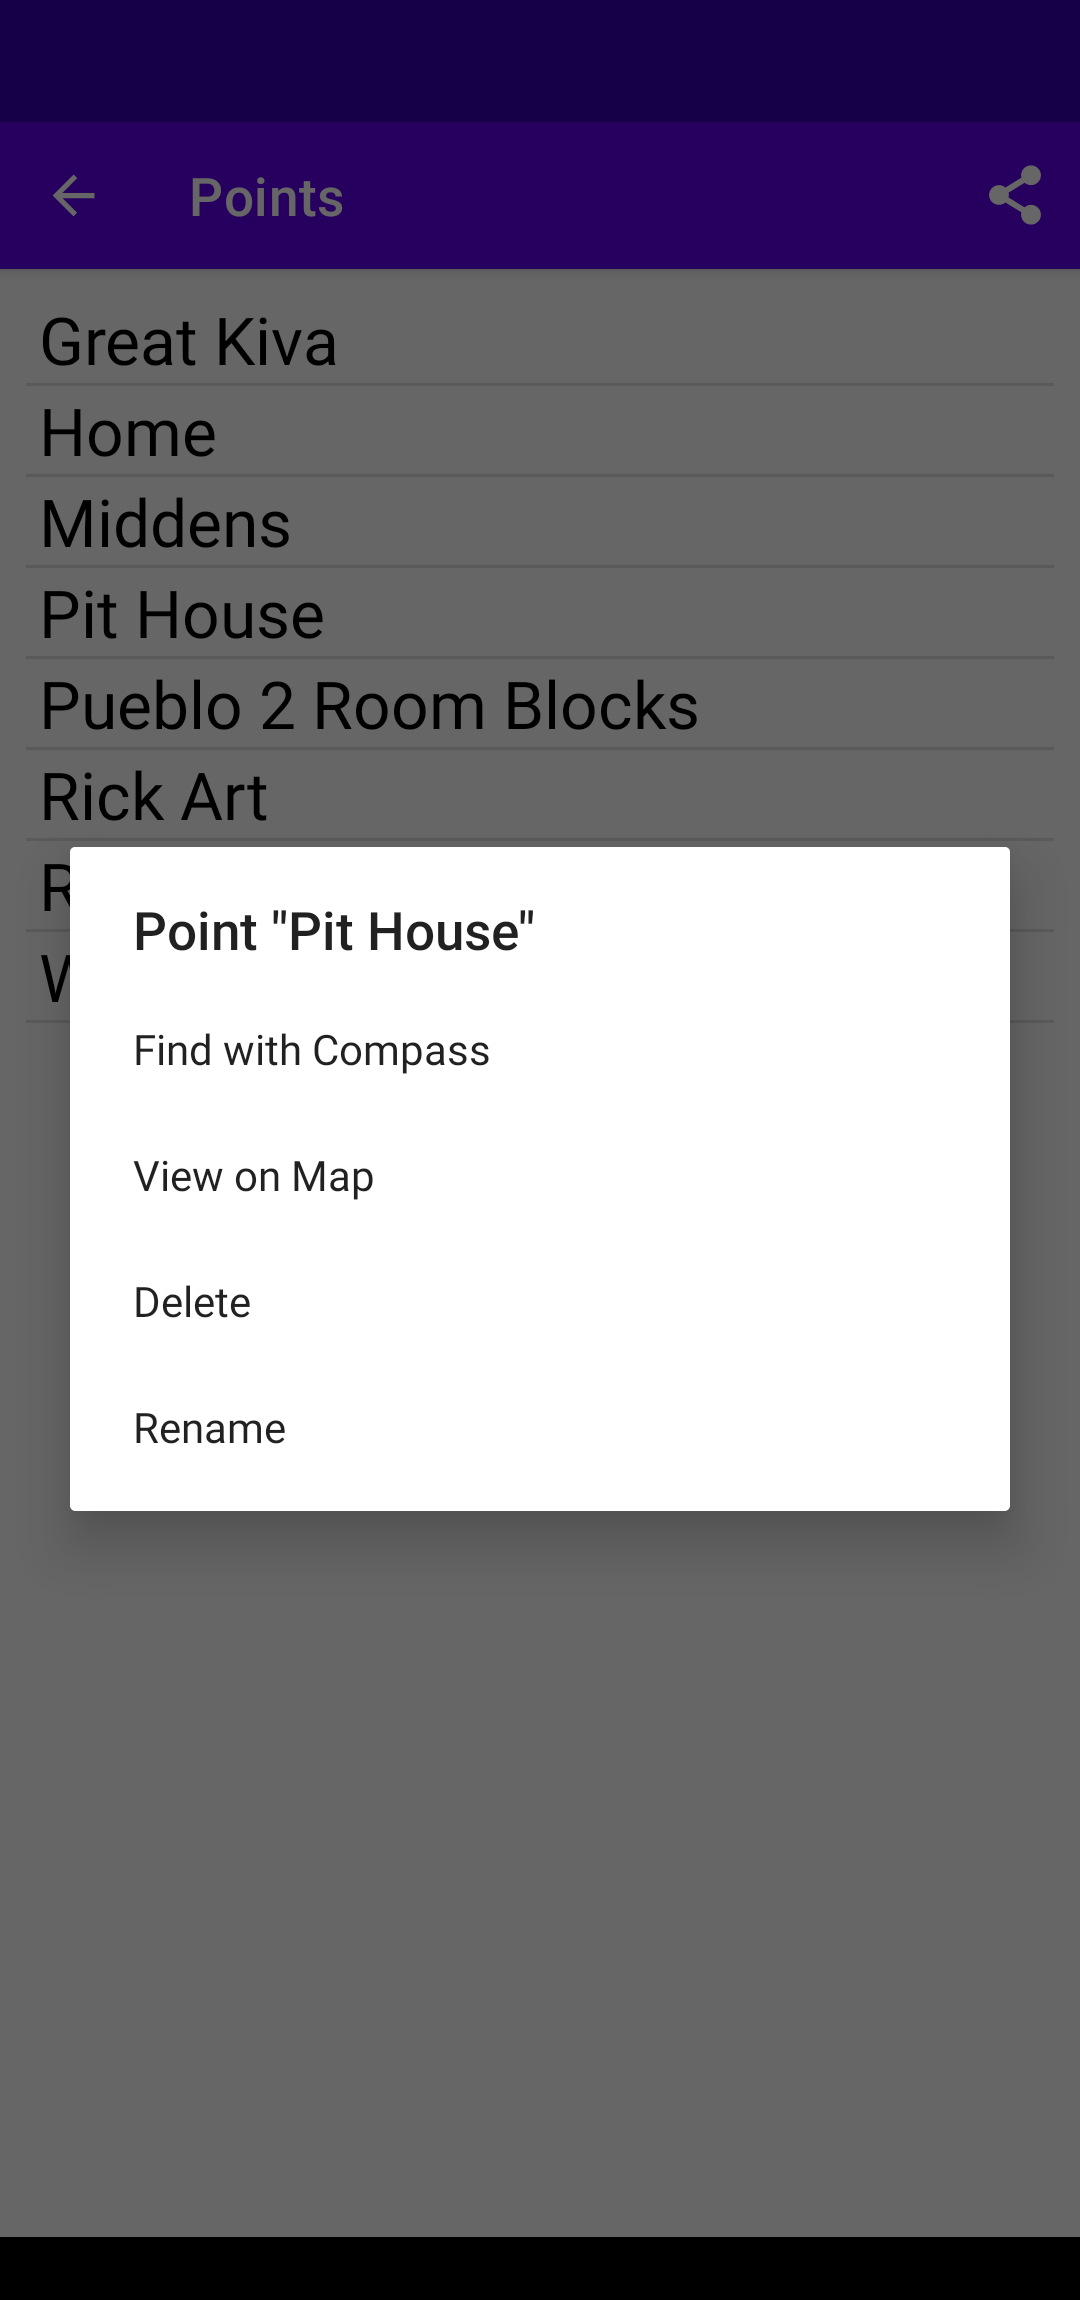
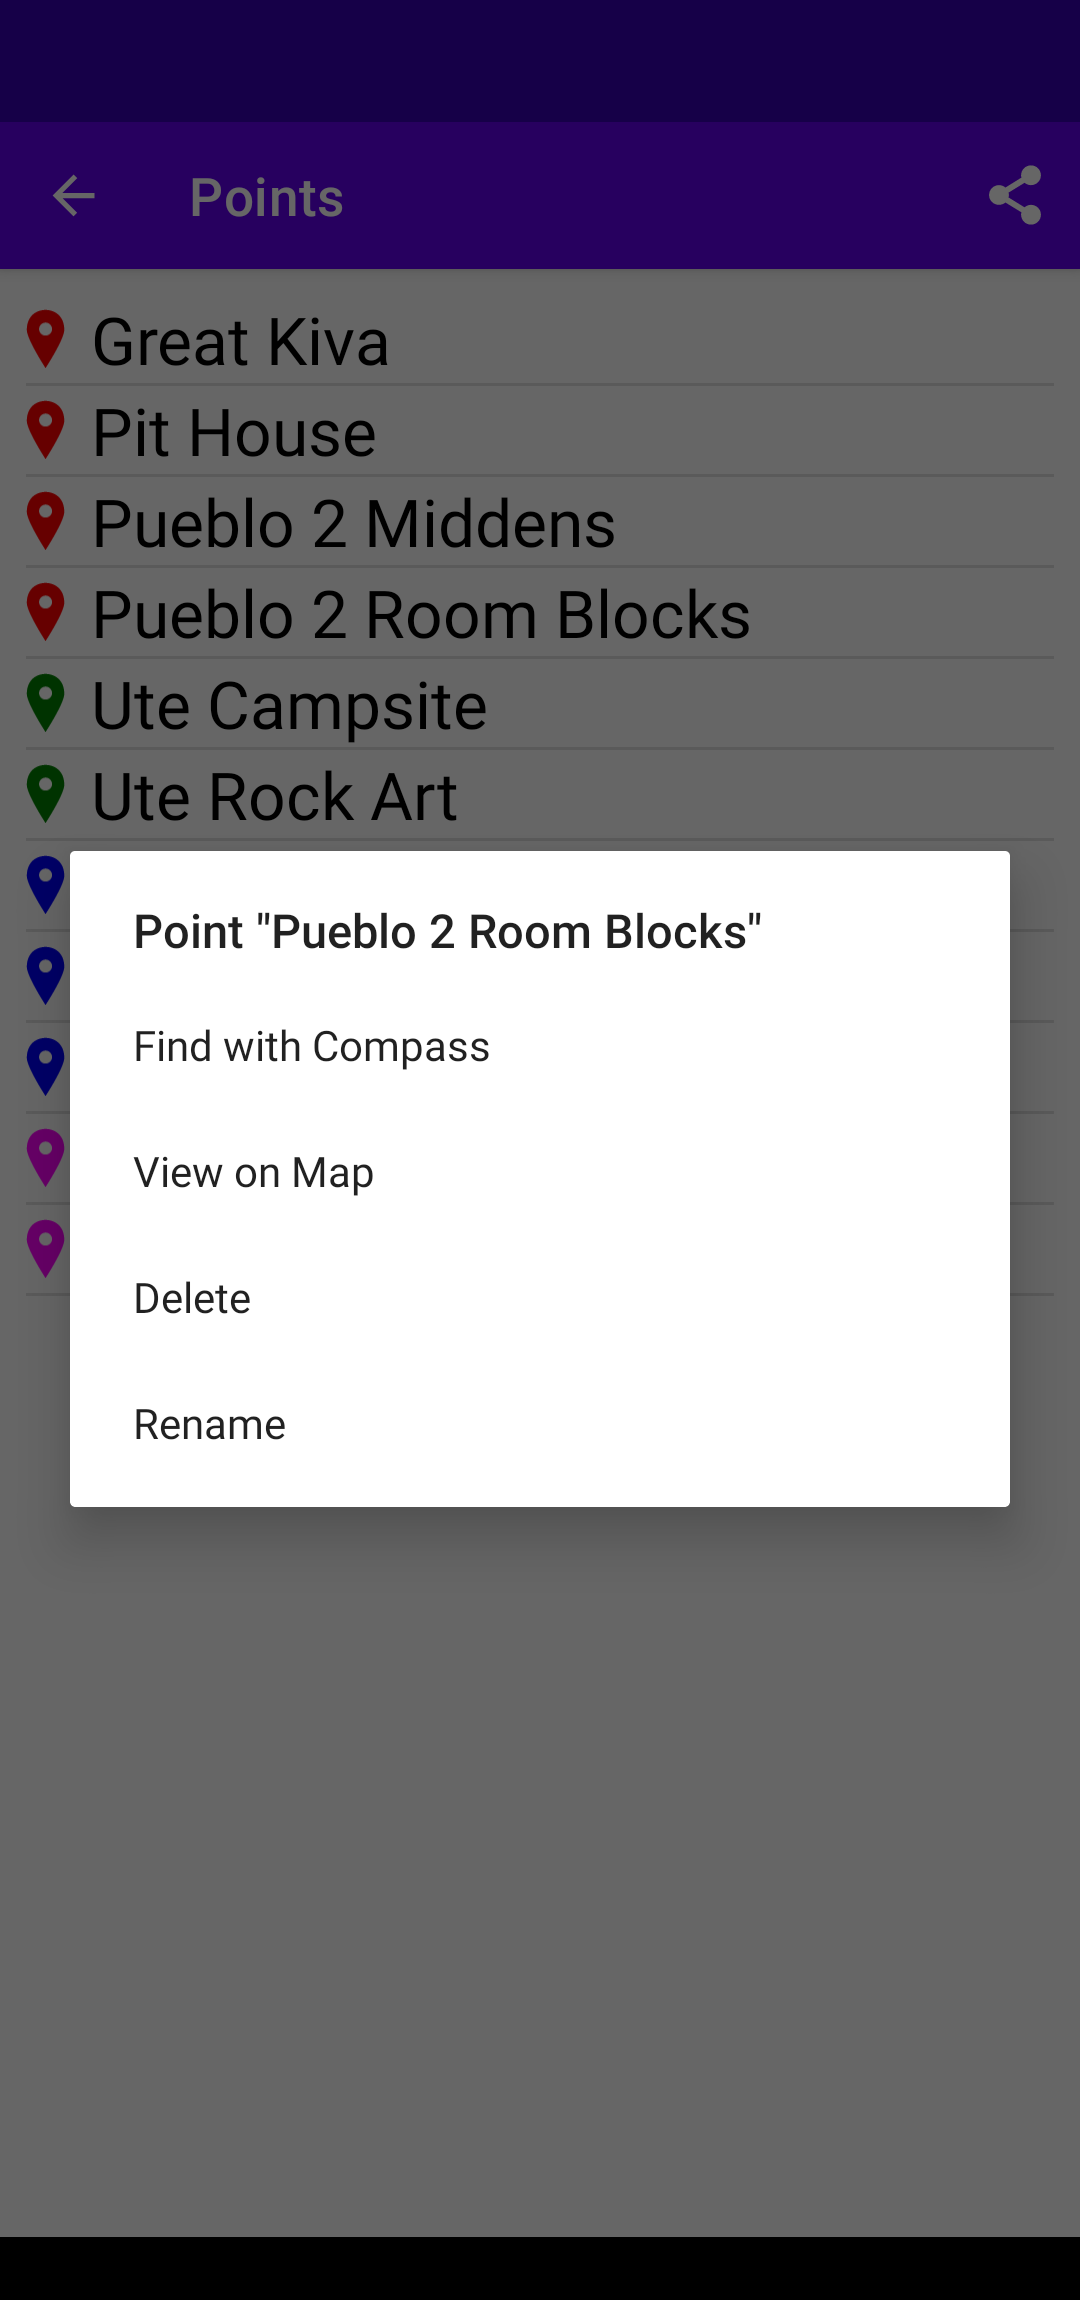
Version 1.27

diff --git a/app/src/main/java/com/ericbt/ebtcompass/Point.java b/app/src/main/java/com/ericbt/ebtcompass/Point.java
@@ -6,27 +6,35 @@ import com.google.android.gms.maps.model.BitmapDescriptorFactory;
 import java.util.Objects;
 
 public class Point {
+    private static final int NAME_INDEX      = 0;
+    private static final int LATITUDE_INDEX  = 1;
+    private static final int LONGITUDE_INDEX = 2;
+    private static final int COLOR_INDEX     = 3;
+    private static final int ALTITUDE_INDEX  = 4;
+
     private final static String DELIMITER = "\0";
 
     public final static int DEFAULT_COLOR = (int) BitmapDescriptorFactory.HUE_BLUE;
 
-    private final double latitude, longitude;
+    private final double latitude, longitude, altitude;
 
     private String name;
 
     private final int color;
 
-    public Point(String name, double latitude, double longitude, int color) {
+    public Point(String name, double latitude, double longitude, double altitude, int color) {
         this.name = name;
         this.latitude = latitude;
         this.longitude = longitude;
+        this.altitude = altitude;
         this.color = color;
     }
 
     public Point(String name) {
         this.name = name;
-        this.latitude = 0.0f;
-        this.longitude = 0.0f;
+        this.latitude = Double.NaN;
+        this.longitude = Double.NaN;
+        this.altitude = Double.NaN;
         this.color = DEFAULT_COLOR;
     }
 
@@ -38,12 +46,18 @@ public class Point {
 
     public double getLongitude() { return longitude; }
 
+    public double getAltitude() { return altitude; }
+
     public int getColor() { return color; }
 
     @Override
     public String toString() {
-        return String.format(LocaleUtils.getDefaultLocale(), "%s%s%.20f%s%.20f%s%d",
-                name, DELIMITER, latitude, DELIMITER, longitude, DELIMITER, color);
+        return String.format(LocaleUtils.getDefaultLocale(), "%s%s%.20f%s%.20f%s%d%s%.20f",
+                name, DELIMITER,
+                latitude, DELIMITER,
+                longitude, DELIMITER,
+                color, DELIMITER,
+                altitude);
     }
 
     public static Point fromString(String delimitedString) {
@@ -51,11 +65,17 @@ public class Point {
 
         int color = DEFAULT_COLOR;
 
-        if (values.length >= 4) {
-            color = Integer.parseInt(values[3]);
+        if (values.length > COLOR_INDEX) {
+            color = Integer.parseInt(values[COLOR_INDEX]);
         }
 
-        return new Point(values[0], Double.parseDouble(values[1]), Double.parseDouble(values[2]), color);
+        double altitude = Double.NaN;
+
+        if (values.length > ALTITUDE_INDEX) {
+            altitude = Double.parseDouble(values[ALTITUDE_INDEX]);
+        }
+
+        return new Point(values[0], Double.parseDouble(values[1]), Double.parseDouble(values[2]), altitude, color);
     }
 
     @Override

diff --git a/app/src/main/java/com/ericbt/ebtcompass/ColorConverter.java b/app/src/main/java/com/ericbt/ebtcompass/ColorConverter.java
@@ -1,0 +1,49 @@
+/*
+  EBT Compass
+  (C) Copyright 2021, Eric Bergman-Terrell
+
+  This file is part of EBT Compass.
+
+    EBT Compass is free software: you can redistribute it and/or modify
+    it under the terms of the GNU General Public License as published by
+    the Free Software Foundation, either version 3 of the License, or
+    (at your option) any later version.
+
+    EBT Compass is distributed in the hope that it will be useful,
+    but WITHOUT ANY WARRANTY; without even the implied warranty of
+    MERCHANTABILITY or FITNESS FOR A PARTICULAR PURPOSE.  See the
+    GNU General Public License for more details.
+
+    You should have received a copy of the GNU General Public License
+    along with EBT Compass.  If not, see <http://www.gnu.org/licenses/>.
+*/
+
+package com.ericbt.ebtcompass;
+
+import android.graphics.Color;
+
+import com.google.android.gms.maps.model.BitmapDescriptorFactory;
+
+import java.util.HashMap;
+import java.util.Map;
+
+public class ColorConverter {
+    final static Map<Float, String> map = new HashMap<>();
+
+    static {
+        map.put(BitmapDescriptorFactory.HUE_RED,     "#FF0000");
+        map.put(BitmapDescriptorFactory.HUE_ORANGE,  "#FFA500");
+        map.put(BitmapDescriptorFactory.HUE_YELLOW,  "#FFFF00");
+        map.put(BitmapDescriptorFactory.HUE_GREEN,   "#008000");
+        map.put(BitmapDescriptorFactory.HUE_CYAN,    "#00FFFF");
+        map.put(BitmapDescriptorFactory.HUE_AZURE,   "#007FFF");
+        map.put(BitmapDescriptorFactory.HUE_BLUE,    "#0000FF");
+        map.put(BitmapDescriptorFactory.HUE_VIOLET,  "#8F00FF");
+        map.put(BitmapDescriptorFactory.HUE_MAGENTA, "#FF00FF");
+        map.put(BitmapDescriptorFactory.HUE_ROSE,    "#FF007F");
+    }
+
+    public static int hueToColor(float hue) {
+        return Color.parseColor(map.get(hue));
+    }
+}

diff --git a/app/src/main/java/com/ericbt/ebtcompass/activities/PointsActivity.java b/app/src/main/java/com/ericbt/ebtcompass/activities/PointsActivity.java
@@ -268,19 +268,18 @@ public class PointsActivity extends CustomActivity {
     }
 
     private void sharePoints() {
-        final Point[] allPoints = Points.getAll(this);
-
         final StringBuilder allPointsText =
-                new StringBuilder("\"Point\",\"Latitude\",\"Longitude\",\"Zone\",\"Easting\",\"Northing\",\"Color\"\n");
+                new StringBuilder("\"Point\",\"Latitude\",\"Longitude\",\"Altitude (m)\",\"Zone\",\"Easting\",\"Northing\",\"Color\"\n");
 
-        for (final Point point: allPoints) {
+        for (final Point point : Points.getAll(this)) {
             final String[] utmValues = AngleUtils.getUTMValues(point.getLatitude(), point.getLongitude());
 
             final String line = String.format(
-                    LocaleUtils.getDefaultLocale(), "\"%s\",%.20f,%.20f,\"%s\",%s,%s,%d\n",
+                    LocaleUtils.getDefaultLocale(), "\"%s\",%.20f,%.20f,%.20f,\"%s\",%s,%s,%d\n",
                     point.getName().replace('\"', '\''),
                     point.getLatitude(),
                     point.getLongitude(),
+                    point.getAltitude(),
                     utmValues[0],
                     utmValues[1],
                     utmValues[2],

diff --git a/app/src/main/java/com/ericbt/ebtcompass/array_adapters/PointArrayAdapter.java b/app/src/main/java/com/ericbt/ebtcompass/array_adapters/PointArrayAdapter.java
@@ -25,9 +25,12 @@ import android.view.LayoutInflater;
 import android.view.View;
 import android.view.ViewGroup;
 import android.widget.ArrayAdapter;
+import android.widget.ImageView;
 import android.widget.TextView;
 
+import com.ericbt.ebtcompass.ColorConverter;
 import com.ericbt.ebtcompass.Point;
+import com.ericbt.ebtcompass.R;
 
 public class PointArrayAdapter extends ArrayAdapter<Point> {
     private final Context context;
@@ -50,6 +53,9 @@ public class PointArrayAdapter extends ArrayAdapter<Point> {
         }
 
         final Point point = getItem(position);
+
+        final ImageView marker = convertView.findViewById(R.id.marker);
+        marker.setColorFilter(ColorConverter.hueToColor(point.getColor()));
 
         final TextView textView = convertView.findViewById(textViewResourceId);
         textView.setText(point.getName());

diff --git a/app/src/main/java/com/ericbt/ebtcompass/activities/BasePointActivity.java b/app/src/main/java/com/ericbt/ebtcompass/activities/BasePointActivity.java
@@ -47,6 +47,8 @@ public class BasePointActivity extends CustomActivity {
 
     private double initialLatitude, initialLongitude;
 
+    protected double altitude;
+
     protected String angleUnits;
 
     private static final int[] editTextIDs = {
@@ -87,6 +89,7 @@ public class BasePointActivity extends CustomActivity {
 
         initialLatitude = getIntent().getDoubleExtra(StringLiterals.LATITUDE, 0.0f);
         initialLongitude = getIntent().getDoubleExtra(StringLiterals.LONGITUDE, 0.0f);
+        altitude = getIntent().getDoubleExtra(StringLiterals.ALTITUDE, 0.0f);
 
         setupPointUI();
 

diff --git a/app/src/main/java/com/ericbt/ebtcompass/Points.java b/app/src/main/java/com/ericbt/ebtcompass/Points.java
@@ -98,6 +98,12 @@ public class Points {
     private static class PointComparitor implements Comparator<Point> {
         @Override
         public int compare(Point point1, Point point2) {
+            final int colorComparison = point1.getColor() - point2.getColor();
+
+            if (colorComparison != 0) {
+                return colorComparison;
+            }
+
             return point1.getName().toLowerCase().compareTo(point2.getName().toLowerCase());
         }
     }

diff --git a/app/src/main/java/com/ericbt/ebtcompass/StringLiterals.java b/app/src/main/java/com/ericbt/ebtcompass/StringLiterals.java
@@ -43,6 +43,7 @@ public class StringLiterals {
     public static final String REGEX_WORDS                    = "\\s";
     public static final String NAME                           = "name";
     public static final String CANCEL                         = "Cancel";
+    public static final String ALTITUDE                       = "ALTITUDE";
 
     // Preference keys
     public static final String PREFERENCE_KEY_DISTANCE_UNITS = "distance_units";

diff --git a/app/src/main/java/com/ericbt/ebtcompass/activities/SavePointActivity.java b/app/src/main/java/com/ericbt/ebtcompass/activities/SavePointActivity.java
@@ -96,7 +96,7 @@ public class SavePointActivity extends BasePointActivity {
     private void savePoint(String nameText, int color) {
         final double[] latLong = getLatLong();
 
-        Points.upsert(this, new Point(nameText, latLong[0], latLong[1], color));
+        Points.upsert(this, new Point(nameText, latLong[0], latLong[1], altitude, color));
     }
 
     private void overWrite(String name, int color) {

diff --git a/app/src/main/java/com/ericbt/ebtcompass/activities/MainActivity.java b/app/src/main/java/com/ericbt/ebtcompass/activities/MainActivity.java
@@ -154,6 +154,7 @@ public class MainActivity extends CompassActivity {
             final Bundle bundle = new Bundle();
             bundle.putDouble(StringLiterals.LATITUDE, lastLatitude);
             bundle.putDouble(StringLiterals.LONGITUDE, lastLongitude);
+            bundle.putDouble(StringLiterals.ALTITUDE, altitude);
 
             intent.putExtras(bundle);
 
